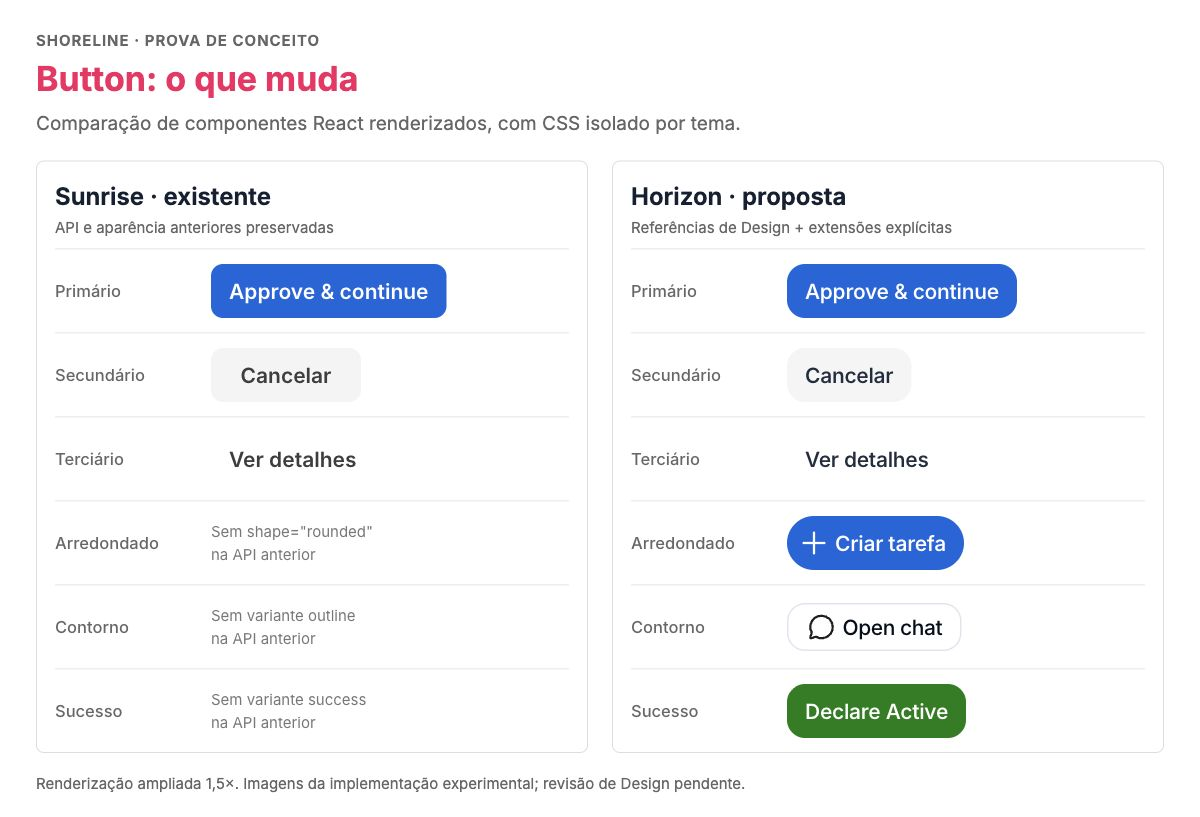
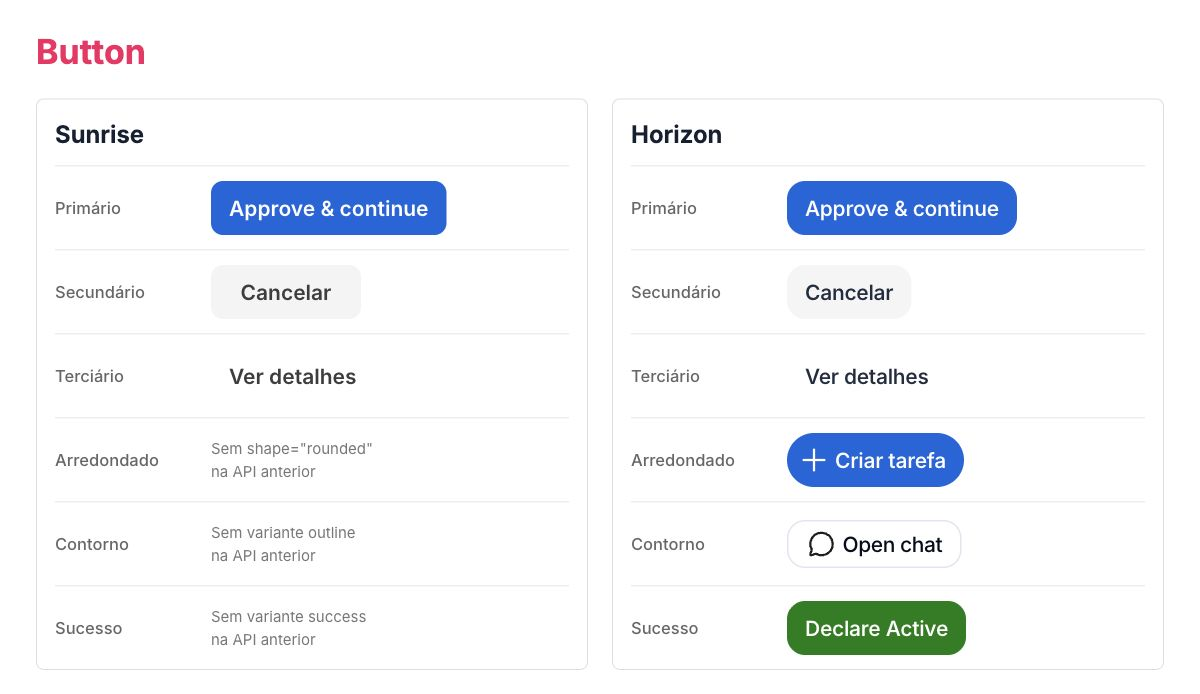
docs(horizon): simplify RFC copy and comparison figures

diff --git a/docs/design-system/preview/index.html b/docs/design-system/preview/index.html
@@ -9,20 +9,17 @@
   <body>
     <main id="comparison">
       <header>
-        <p class="eyebrow">SHORELINE · PROVA DE CONCEITO</p>
         <h1 id="title">Button</h1>
-        <p id="subtitle">Comparação de componentes React renderizados, com CSS isolado por tema.</p>
       </header>
       <div class="comparison-columns">
-        <section><h2>Sunrise · existente</h2><p class="column-note">API e aparência anteriores preservadas</p><iframe id="sunrise" title="Componentes Sunrise"></iframe></section>
-        <section><h2>Horizon · proposta</h2><p class="column-note">Referências de Design + extensões explícitas</p><iframe id="horizon" title="Componentes Horizon"></iframe></section>
+        <section><h2>Sunrise</h2><iframe id="sunrise" title="Componentes Sunrise"></iframe></section>
+        <section><h2>Horizon</h2><iframe id="horizon" title="Componentes Horizon"></iframe></section>
       </div>
-      <footer id="footer">Renderização ampliada 1,5×. Imagens da implementação experimental; revisão de Design pendente.</footer>
     </main>
     <nav aria-label="Comparações"><a href="?component=button">Button</a><a href="?component=icon-button">IconButton</a></nav>
     <script type="module">
       const component = new URLSearchParams(location.search).get('component') === 'icon-button' ? 'icon-button' : 'button'
-      document.querySelector('#title').textContent = component === 'button' ? 'Button: o que muda' : 'IconButton: forma, intenção e estados'
+      document.querySelector('#title').textContent = component === 'button' ? 'Button' : 'IconButton'
       for (const theme of ['sunrise', 'horizon']) document.querySelector(`#${theme}`).src = `./frame.html?theme=${theme}&component=${component}`
     </script>
   </body>

diff --git a/docs/design-system/preview/preview.css b/docs/design-system/preview/preview.css
@@ -21,24 +21,12 @@ main {
 header {
   margin-bottom: 26px;
 }
-.eyebrow {
-  font-size: 15px;
-  letter-spacing: 1px;
-  font-weight: 650;
-  color: #666;
-  margin: 0 0 8px;
-}
 h1 {
   font-size: 34px;
   line-height: 1.25;
   font-weight: 700;
   color: #f71963;
   margin: 0 0 12px;
-}
-header > p:last-child {
-  margin: 0;
-  color: #666;
-  font-size: 19px;
 }
 .comparison-columns {
   display: grid;
@@ -52,25 +40,14 @@ section {
 }
 h2 {
   font-size: 24px;
-  margin: 0 0 7px;
+  margin: 0 0 16px;
   font-weight: 650;
-}
-.column-note {
-  font-size: 15px;
-  color: #666;
-  margin: 0 0 12px;
 }
 iframe {
   border: 0;
   width: 100%;
   height: 504px;
   display: block;
-}
-footer {
-  font-size: 15px;
-  color: #666;
-  margin-top: 20px;
-  line-height: 1.4;
 }
 nav {
   display: flex;

diff --git a/docs/design-system/preview/export-document.py b/docs/design-system/preview/export-document.py
@@ -62,7 +62,7 @@ def convert(part):
             while i < len(lines) and lines[i].startswith('|'):
                 rows.append(lines[i])
                 i += 1
-            metadata = rows[0].startswith('| Criada em')
+            metadata = rows[0].startswith(('| Created', '| Criada em'))
             result.append('<table style="border-collapse:collapse;width:624px;font-family:Arial;font-size:' + ('9' if metadata else '10') + 'pt;line-height:115%;color:#666666">')
             for n, row in enumerate(rows):
                 if re.match(r'^\|[ :|\-]+$', row):

diff --git a/docs/design-system/proposta.md b/docs/design-system/proposta.md
@@ -1,10 +1,8 @@
 # RFC: Shoreline Horizon
 
-| Criada em | 03/10/2026 | Status | Em revisão |
+| Created | 03/10/2026 | Status | Draft |
 | --- | --- | --- | --- |
-| Versão atual | 1.0 | Proponente | William Cunha |
-
-Revisores propostos: Design System, AI Workspace, Studio e Design. Responsáveis a confirmar.
+| Version | 1.0 | Creators | William Cunha |
 
 ## Changelog
 
@@ -18,7 +16,7 @@ Hoje, o AI Workspace obtém parte de sua aparência **sobrescrevendo estilos e t
 
 A proposta é tornar **Shoreline com Horizon a fonte da verdade das decisões visuais reutilizáveis**. Design poderá construir e validar interfaces com os mesmos componentes e tokens disponíveis no projeto oficial. O resultado esperado é reaproveitar a implementação aprovada, em vez de reconstruir a aparência de um protótipo em cada produto.
 
-Esta RFC solicita acordo sobre a arquitetura, o escopo inicial e o processo de adoção. Todo o trabalho existente é uma demonstração inicial de possibilidades. Sunrise permanece como tema padrão; Horizon será adotado explicitamente pelos consumidores.
+Sunrise permanece como tema padrão; Horizon será adotado explicitamente pelos consumidores.
 
 ## Não objetivos
 
@@ -35,13 +33,13 @@ Não propomos substituir Sunrise, criar outra biblioteca React, migrar todas as 
 | AIW Styleguide | Apresenta exemplos e documenta decisões do template. | O catálogo ajuda na discussão, mas não deve se tornar outra implementação independente dos componentes. |
 | Studio | Precisará consumir uma linguagem visual similar à do AI Workspace. | Copiar as adaptações atuais criaria mais uma base para sincronizar. |
 
-O ciclo atual é: uma decisão visual entra no template ou na aplicação, é adaptada localmente e precisa ser reconciliada nas demais bases. Correções de foco, densidade ou estados podem seguir caminhos diferentes. O problema não é a existência de protótipos, mas a ausência de uma base reutilizável que conecte a exploração de Design à implementação oficial.
+O ciclo atual é: uma decisão visual entra no template ou na aplicação, é adaptada localmente e precisa ser reconciliada nas demais bases. Correções de foco, densidade ou estados podem seguir caminhos diferentes. Falta uma base reutilizável que conecte a exploração de Design à implementação oficial.
 
 ### O que a comparação dos repositórios mostrou
 
 O template e a shell oficial já compartilham cores, raios e sombras centrais. Ainda assim, há diferenças concretas: itens da sidebar têm 36 px no template e 40 px no oficial; o template possui uma camada própria de papéis tipográficos; variantes e composições evoluíram de forma distinta. Também usam versões resolvidas diferentes: Shoreline 1.12.3 e Agentic UI 0.4.4 no template, contra Shoreline 1.12.19 e Agentic UI 0.7.0-beta.16 no oficial. **Adotar uma paleta comum, isoladamente, não elimina essas diferenças.**
 
-A comparação considera `ai-workspace-shell-template` e o código versionado em `admin-platform/ai-workspace/shell`. Neste checkout, `admin-platform/apps/ai-workspace-shell` contém apenas artefatos locais, sem o código-fonte do workspace atual. O README do template registra sua descontinuação após a migração para Admin Platform; seu uso como referência de exploração por Design não o torna a fonte oficial do produto.
+A comparação considera `ai-workspace-shell-template` e o código versionado em `admin-platform/ai-workspace/shell`. O README do template registra sua descontinuação após a migração para Admin Platform. Ele permanece como referência de exploração por Design; o código oficial do produto está no Admin Platform.
 
 ## Proposta
 
@@ -52,7 +50,7 @@ Horizon reunirá tokens semânticos de cor, tipografia, espaçamento, raios, sup
 As responsabilidades propostas são:
 
 - **Shoreline e Horizon:** manter as decisões visuais e capacidades aprovadas que fazem sentido para mais de um consumidor.
-- **Template de Design:** consumir o pacote e o tema, explorar composições e demonstrar necessidades ainda não cobertas. Experimentos locais deverão ser identificados para revisão, sem se tornarem silenciosamente um segundo design system.
+- **Template de Design:** consumir o pacote e o tema, explorar composições e encaminhar necessidades e experimentos locais para revisão.
 - **AI Workspace e Studio:** consumir a mesma base visual e manter suas integrações, jornadas e regras de produto.
 - **Styleguide:** apresentar exemplos executáveis dessa base, evitando definições próprias que contradigam o pacote.
 
@@ -67,29 +65,29 @@ export function Example() {
 }
 ```
 
-Esse ponto de entrada existe na branch de demonstração, ainda sujeito ao processo de publicação. O import atual `@vtex/shoreline/css` continua selecionando Sunrise. Como os estilos são globais, cada documento deve carregar um tema completo; a demonstração isola os temas para compará-los.
+Esse ponto de entrada existe na branch `feat/horizon-theme-rfc`; sua publicação seguirá o processo do Shoreline. O import atual `@vtex/shoreline/css` continua selecionando Sunrise. Como os estilos são globais, cada documento deve carregar um tema completo.
 
 ### Do protótipo ao projeto oficial
 
 Uma necessidade identificada por Design será classificada como decisão de tema, capacidade de componente ou composição de produto. As duas primeiras serão propostas e revisadas no Shoreline. Depois de aprovadas, o template e os produtos consumirão a mesma versão, reduzindo a necessidade de sobrescritas.
 
-As composições poderão ser reaproveitadas no projeto oficial quando suas dependências e contratos permitirem. Mocks e dados de demonstração serão substituídos pelas integrações reais, preservando os componentes e estilos compartilhados. Layouts específicos de página não serão promovidos automaticamente ao design system.
+As composições poderão ser reaproveitadas no projeto oficial quando suas dependências e contratos permitirem. Mocks serão substituídos pelas integrações reais, preservando os componentes e estilos compartilhados. Layouts específicos de página não serão promovidos automaticamente ao design system.
 
 Esse fluxo permite que Design valide interfaces próximas do que pode ser entregue. Também evita exigir que a Engenharia copie todo o template ou refaça sua apresentação a cada evolução.
 
-### Demonstração das capacidades
+### Exemplos visuais
 
-Button e IconButton servem como **exemplos concretos do mecanismo de temas**, não como o escopo completo de Horizon. As imagens comparam componentes React reais de Sunrise com a apresentação experimental de Horizon.
+As imagens comparam Button e IconButton em Sunrise e Horizon.
 
 ![Comparação de Button nos temas Sunrise e Horizon.](assets/button-comparison.png)
 
-*Figura 1. Comparação de aparência e capacidades propostas: raios, tipografia, largura conforme conteúdo, forma arredondada, contorno e sucesso. O lado Sunrise representa as opções anteriores; as extensões da API são compartilhadas pelos dois temas.*
+*Figura 1. Button: raios, tipografia, largura conforme conteúdo, forma arredondada, contorno e sucesso. As novas opções de API são compartilhadas pelos dois temas.*
 
 ![Comparação de IconButton nos temas Sunrise e Horizon.](assets/icon-button-comparison.png)
 
-*Figura 2. O mesmo mecanismo aplicado a ações com ícones: forma padrão ou circular, opção compacta e estados desabilitado e carregando. A animação foi pausada somente para a captura.*
+*Figura 2. IconButton: forma padrão ou circular, opção compacta e estados desabilitado e carregando.*
 
-As medidas e variantes demonstradas são hipóteses iniciais para revisão conjunta de Design e Engenharia. A proposta preserva os defaults existentes de Sunrise e exercita novos tokens, estados e opções de API. O aceite do tema deverá cobrir também formulários, navegação, conteúdo e dados, feedback e sobreposições, conforme o inventário de necessidades dos consumidores.
+A proposta preserva os defaults existentes de Sunrise. A cobertura de Horizon incluirá formulários, navegação, conteúdo e dados, feedback e sobreposições, conforme o inventário de necessidades dos consumidores.
 
 ## Adoção e critérios de aceite
 
@@ -106,11 +104,11 @@ O aceite deve demonstrar que uma decisão visual aprovada chega ao template e ao
 
 Para publicar, exigir build, tipos, lint, testes de unidade e interação, cobertura mínima de 80% de linhas por pacote público, revisão visual dos temas em desktop e mobile e validação de contraste, teclado, foco, zoom e tecnologias assistivas. Design e Engenharia aprovam o resultado. A migração deve permitir retorno à versão e à configuração anteriores do consumidor.
 
-## Estado da demonstração
+## Validação
 
-A branch `feat/horizon-theme-rfc` contém o experimento de tema, componentes, imagens e ferramentas de apoio. Na execução registrada, o build, 189 testes unitários, 100 testes do ferramental e seis cenários de interação passaram. As comparações de Button e IconButton passaram nos oito combinações de componente, tema e viewport, sem violações detectadas pelo axe.
+Na execução registrada na branch `feat/horizon-theme-rfc`, o build, 189 testes unitários, 100 testes do ferramental e seis cenários de interação passaram. As comparações de Button e IconButton passaram nas oito combinações de componente, tema e viewport, sem violações detectadas pelo axe.
 
-A demonstração ainda não está homologada: a checagem global de tipos apresenta oito diagnósticos fora desses componentes; o diagnóstico geral registrado apresentou 36 falhas de acessibilidade em outros componentes; baselines visuais no ambiente canônico, cobertura por pacote e integração dos três consumidores permanecem pendentes. Esses limites não invalidam a discussão da arquitetura, mas precisam ser resolvidos no escopo correspondente antes da publicação. A aprovação desta RFC não aprova automaticamente todo o código experimental.
+A checagem global de tipos apresenta oito diagnósticos fora desses componentes; o diagnóstico geral anterior registrou 36 falhas de acessibilidade em outros componentes. Permanecem pendentes a correção desses problemas, as baselines visuais no ambiente canônico, a medição de cobertura por pacote e a integração dos três consumidores.
 
 ## Alternativas e riscos
 
@@ -127,10 +125,8 @@ Os principais riscos são mover estilos específicos de produto para o tema, pre
 
 ## Referências
 
-As referências sustentam a análise; o problema, a proposta, o processo de adoção e as pendências estão descritos nesta RFC.
-
 - [AI Workspace no Admin Platform](https://github.com/vtex/admin-platform/tree/7bb6cb122dd5ee45cc1bc0031a84fb8b9a130508/ai-workspace/shell): estilos locais, wrappers, integrações e dependências oficiais.
 - [Template utilizado por Design](https://github.com/vtex/ai-workspace-shell-template/tree/a287ee816d06b0b4325da3ea64b22675ff820ce4): tema, tokens, tipografia e composições comparados.
 - [AIW Styleguide](https://github.com/vtex/aiw-styleguide/tree/baceafacc9e32a863987dad06da5a6654b387d6b): catálogo complementar do template.
-- [Branch de demonstração](https://github.com/vtex/shoreline/tree/feat/horizon-theme-rfc) e [preview executável](preview/README.md).
+- [Branch Horizon](https://github.com/vtex/shoreline/tree/feat/horizon-theme-rfc) e [preview executável](preview/README.md).
 - [Constituição do Shoreline](https://github.com/vtex/shoreline-specs/blob/main/.specify/memory/constitution.md): critérios de contribuição e qualidade.

diff --git a/docs/design-system/preview/README.md b/docs/design-system/preview/README.md
@@ -1,6 +1,6 @@
 # Comparação executável — RFC Horizon
 
-As figuras da RFC são capturas de componentes **React reais**, importados de `packages/shoreline/src`, com o CSS compilado do tema correspondente. Cada tema roda em um iframe independente. Nenhuma forma de botão foi redesenhada em SVG ou simulada por CSS do preview.
+As figuras da RFC são capturas de componentes React importados de `packages/shoreline/src`, com o CSS compilado do tema correspondente. Cada tema roda em um iframe independente.
 
 ```sh
 pnpm build
@@ -11,15 +11,11 @@ Abra `http://127.0.0.1:8765/docs/design-system/preview/index.html?component=butt
 
 Capture o elemento `#comparison` (1200 px de largura). Os componentes são ampliados 1,5× por `zoom` do contêiner para leitura na RFC. O preview não muda cores, tipografia, bordas, dimensões ou estados dos componentes. A fonte Inter variável local tem licença SIL OFL em `fonts/OFL.txt`.
 
-A coluna Sunrise usa a implementação compartilhada atual, limitada às opções disponíveis antes da demonstração. Seus defaults são preservados; rótulos de capacidades ausentes se referem à API anterior. As novas opções também são suportadas por Sunrise, embora só apareçam na coluna Horizon nesta comparação.
+A coluna Sunrise usa a implementação compartilhada atual, limitada às opções disponíveis antes desta proposta. Seus defaults são preservados; rótulos de capacidades ausentes se referem à API anterior. As novas opções também são suportadas por Sunrise, embora só apareçam na coluna Horizon nesta comparação.
 
-## Papel na proposta inicial
+## Referências de implementação
 
-O preview ilustra capacidades da proposta Horizon v1.0: seleção isolada de tema, tokens semânticos, APIs compartilhadas e preservação dos defaults Sunrise. Button e IconButton são exemplos; a RFC trata da construção de um tema reutilizável para AI Workspace, Studio e templates ou protótipos dos times de Design.
-
-As cores, formas, tipografia e estados apresentados são propostas experimentais registradas nos tokens locais. Rounded e success também aparecem nos wrappers de AI Workspace; outline e small são informados pelo `toolbarOutline` do aiw-styleguide no commit `baceafacc9e32a863987dad06da5a6654b387d6b`. Essa referência não aprova as decisões visuais nem estabelece uma especificação completa do tema.
-
-A comparação demonstra variações com largura conforme conteúdo, formas padrão e arredondada, tamanhos de 32/36/44 px e estados de interação. Os detalhes estão nos contratos dos componentes. A revisão deve avaliar como essas possibilidades se integram ao vocabulário do tema e aos seus diferentes consumidores.
+Rounded e success também aparecem nos wrappers de AI Workspace; outline e small são informados pelo `toolbarOutline` do aiw-styleguide no commit `baceafacc9e32a863987dad06da5a6654b387d6b`. Os tokens locais e os contratos dos componentes registram as cores, formas, tipografia, tamanhos e estados utilizados.
 
 ## Documento
 

diff --git a/docs/design-system/assets/README.md b/docs/design-system/assets/README.md
@@ -3,8 +3,6 @@
 - `button-comparison.png`: Sunrise existente × Horizon proposto, incluindo rounded, outline e success.
 - `icon-button-comparison.png`: formas padrão/circular, tamanho compacto, disabled e loading.
 
-São capturas dos componentes React reais, em documentos isolados com CSS compilado. A renderização foi ampliada 1,5×; o spinner real foi pausado no meio da animação. As imagens não representam aprovação de Design nem baselines visuais.
+São capturas dos componentes React, em documentos isolados com CSS compilado. A renderização foi ampliada 1,5×; o spinner foi pausado no meio da animação.
 
-Fontes, execução e captura: [preview reproduzível](../preview/README.md). Decisões e limites: [RFC](../proposta.md). Checks e pendências: [validação](../validacao-rfc.md).
-
-As figuras ilustram possibilidades da proposta inicial v1.0. Elas apoiam a revisão do tema; não definem seu catálogo completo de componentes.
+Fontes, execução e captura: [preview reproduzível](../preview/README.md). Proposta: [RFC](../proposta.md). Checks e pendências: [validação](../validacao-rfc.md).
